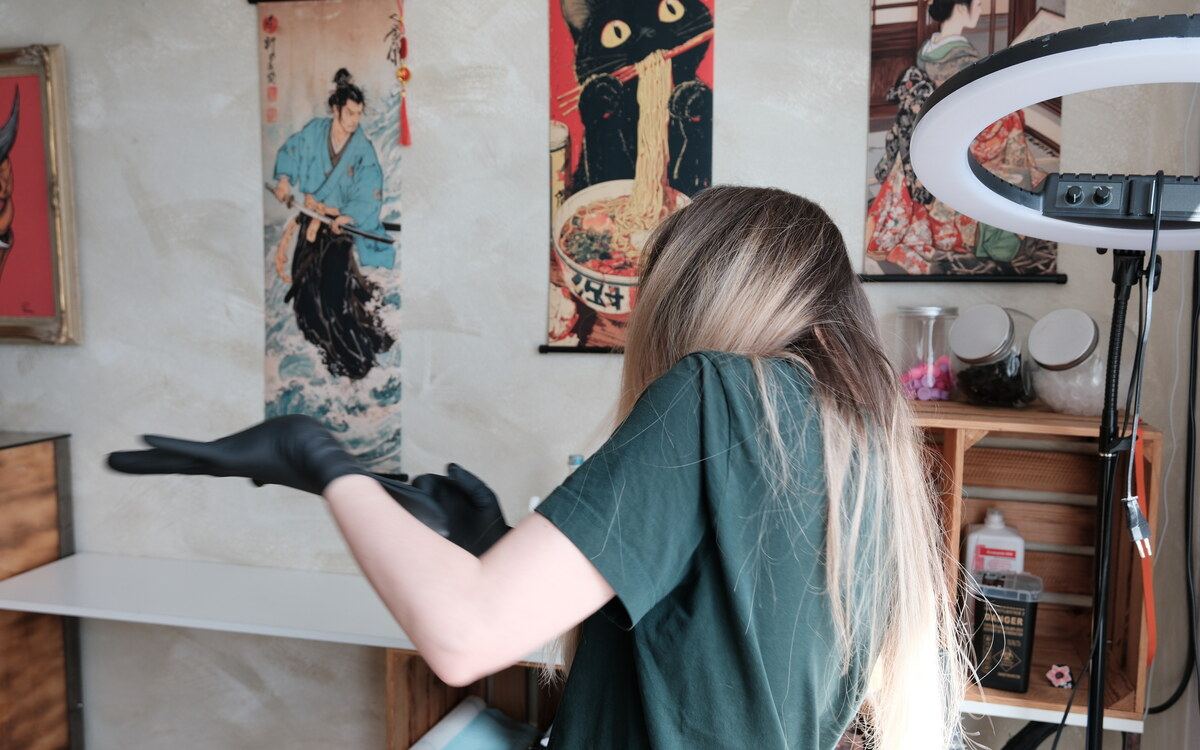
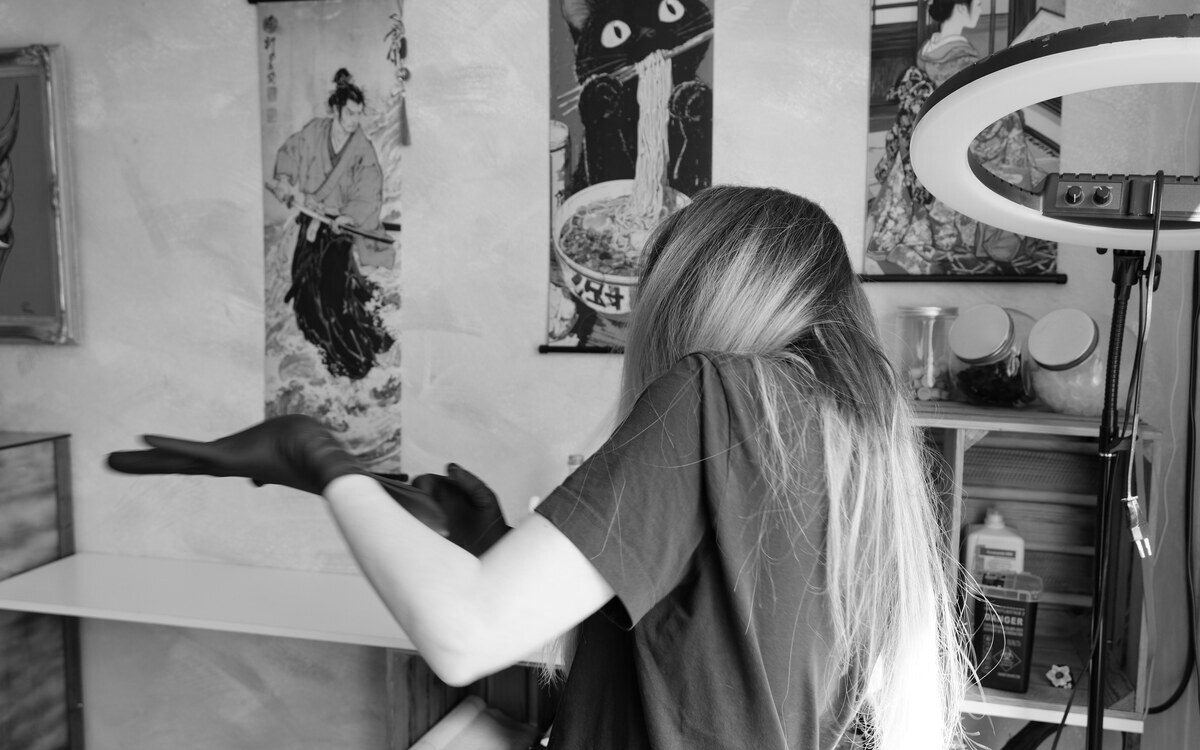
feat: статья tattoo-problemzonen-muenchen — 5 проблемных зон, DE/EN/UK, ч/б фото

diff --git a/content/stories.ts b/content/stories.ts
@@ -116,6 +116,15 @@ export const STORIES: StoryMeta[] = [
     coverAlt: 'Tattoo Referenz kopieren — Kisha Tattoo München',
   },
   {
+    slug: 'tattoo-problemzonen-muenchen',
+    publishedAt: '2026-05-20',
+    readingTime: '5 min',
+    category: 'Guide',
+    coverImage: '/images/blog/tattoo-problemzonen.jpg',
+    coverImageBig: '/images/blog/tattoo-problemzonen(Big).jpg',
+    coverAlt: 'Tattoo Problemzonen München — Kisha Tattoo Studio',
+  },
+  {
     slug: 'tattoo-nachsorge-pflege-tipps',
     publishedAt: '2026-05-06',
     readingTime: '5 min',
